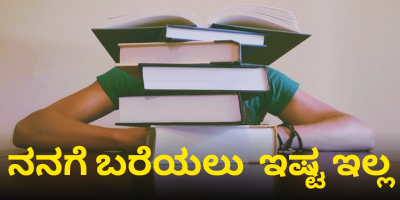
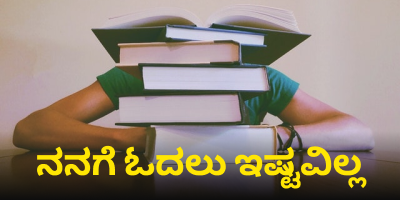
More corrections. Hopefully final build.

Changed region(s): [[0.0, 0.72, 0.99, 0.96]]

diff --git a/lib/pages/english/enDontLike.dart b/lib/pages/english/enDontLike.dart
@@ -35,6 +35,10 @@ class EnDontLike extends StatelessWidget {
             image: 'assets/images/enDontLike04.png',
             audioFile: 'assets/sounds/enDontLike04.mp3',
           ),
+          RectImageCard(
+            image: 'assets/images/enDontLike05.png',
+            audioFile: 'assets/sounds/enDontLike05.mp3',
+          ),
         ],
       ),
     );
